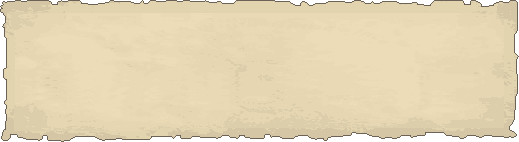
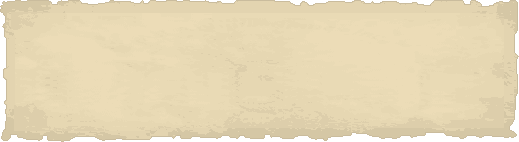
Chat parchment: blend the tear outline almost fully into the cream for a seamless edge

diff --git a/README.md b/README.md
@@ -49,7 +49,7 @@ The transparent chatbox keeps its default colours. If you prefer your own chat c
 | --- | --- |
 | Buttons, tab stones, bank, scrollbars, checkboxes and sliders, GE, equipment slots, dialog panels | Taken as-is from the [Vanilla Noctis Bordo pack](https://github.com/opher290/bordo-resource-pack), so they match it exactly |
 | Side panel, tab rows, minimap frame, window edges, the black steel dialog borders, chat buttons | The original 2005 art recoloured to the Bordo rose-greys (`#1a1516` through `#33292a` to `#a88a86`), darkened to the Vanilla Noctis Bordo pack's tone |
-| Chat parchment | Lifted onto the Lux cream `#e6d7b2`, keeping the original shading and torn edges, with the dark outline of the tear softened into the cream and the burnt edge moved onto the Bordo rose-greys |
+| Chat parchment | Lifted onto the Lux cream `#e6d7b2`, keeping the original shading and torn edges, with the dark outline of the tear blended almost fully into the cream so the edge is seamless |
 | Compass dial | Keeps the original smooth gradient, from a Bordo wine rim (`#84303f`) through red-orange to a yellow-orange `#f2b13e` centre |
 | Overlay, borders and separators | The Vanilla Noctis Bordo pack's `vars.toml` and `overrides.toml`, unchanged |
 | Selected tab stones | GNASH0R's own chamfered selected stones, tinted to brick red #8f3f2a and keeping their shape, shading and outline |
